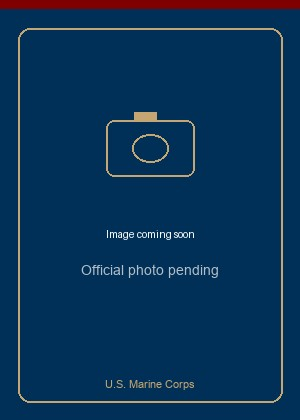
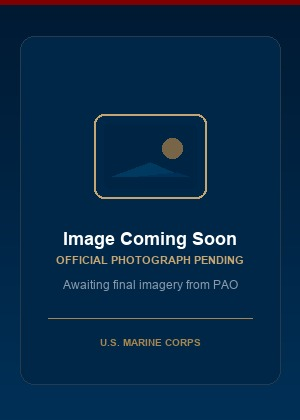
Redesign role photo placeholder with professional navy and gold styling.
Replace the clip-art camera with a refined frame icon, gradient panel, and clearer typography hierarchy for pending PAO photographs.

diff --git a/scripts/build-role-placeholder.py b/scripts/build-role-placeholder.py
@@ -13,15 +13,19 @@ SVG_OUT = OUT_DIR / "image-coming-soon.svg"
 JPG_OUT = OUT_DIR / "image-coming-soon.jpg"
 
 SIZE = (300, 420)
-NAVY = (0, 48, 87)  # #003057
-MAROON = (128, 0, 0)  # #800000
-GOLD = (197, 165, 114)  # #c5a572
-MUTED = (180, 190, 200)
+NAVY = (0, 48, 87)
+NAVY_DARK = (0, 26, 51)
+MAROON = (128, 0, 0)
+GOLD = (197, 165, 114)
+GOLD_DARK = (168, 134, 79)
+WHITE = (255, 255, 255)
+MUTED = (138, 154, 171)
+PANEL = (255, 255, 255, 18)  # used conceptually; raster uses blend
 
 
 def _load_font(size: int, bold: bool = False) -> ImageFont.FreeTypeFont | ImageFont.ImageFont:
     candidates = (
-        "/System/Library/Fonts/Supplemental Arial Bold.ttf" if bold else "/System/Library/Fonts/Supplemental/Arial.ttf",
+        "/System/Library/Fonts/Supplemental/Arial Bold.ttf" if bold else "/System/Library/Fonts/Supplemental/Arial.ttf",
         "/System/Library/Fonts/Supplemental/Helvetica.ttc",
         "/Library/Fonts/Arial.ttf",
     )
@@ -32,58 +36,113 @@ def _load_font(size: int, bold: bool = False) -> ImageFont.FreeTypeFont | ImageF
     return ImageFont.load_default()
 
 
+def _draw_vertical_gradient(img: Image.Image, top: tuple[int, int, int], bottom: tuple[int, int, int]) -> None:
+    base = Image.new("RGB", (1, SIZE[1]))
+    pixels = base.load()
+    for y in range(SIZE[1]):
+        t = y / (SIZE[1] - 1)
+        pixels[0, y] = tuple(int(top[i] + (bottom[i] - top[i]) * t) for i in range(3))
+    gradient = base.resize(SIZE)
+    img.paste(gradient, (0, 0))
+
+
+def _draw_landscape_icon(draw: ImageDraw.ImageDraw, cx: int, cy: int) -> None:
+    """Minimal photo-frame icon with landscape silhouette."""
+    w, h = 112, 84
+    x0, y0 = cx - w // 2, cy - h // 2
+    x1, y1 = x0 + w, y0 + h
+    draw.rounded_rectangle((x0, y0, x1, y1), radius=10, outline=GOLD, width=2)
+
+    inner = (x0 + 10, y0 + 10, x1 - 10, y1 - 10)
+    draw.rounded_rectangle(inner, radius=4, fill=(0, 36, 68))
+
+    ix0, iy0, ix1, iy1 = inner
+    draw.ellipse((ix1 - 34, iy0 + 14, ix1 - 14, iy0 + 34), fill=(120, 100, 70))
+    draw.polygon([(ix0 + 8, iy1 - 12), (ix0 + 46, iy0 + 38), (ix0 + 78, iy1 - 12)], fill=(0, 58, 96))
+    draw.polygon([(ix0 + 34, iy1 - 12), (ix0 + 72, iy0 + 48), (ix1 - 8, iy1 - 12)], fill=(0, 48, 87))
+
+
 def build_raster() -> Image.Image:
     img = Image.new("RGB", SIZE, NAVY)
+    _draw_vertical_gradient(img, NAVY_DARK, NAVY)
     draw = ImageDraw.Draw(img)
 
-    # Top maroon accent bar (matches staff-profile card)
-    draw.rectangle((0, 0, SIZE[0], 8), fill=MAROON)
+    # Top accent — matches staff-profile card
+    draw.rectangle((0, 0, SIZE[0], 4), fill=MAROON)
 
-    # Gold frame
-    inset = 18
-    draw.rounded_rectangle(
-        (inset, 28, SIZE[0] - inset, SIZE[1] - inset),
-        radius=12,
-        outline=GOLD,
-        width=2,
-    )
+    # Subtle inner panel
+    draw.rounded_rectangle((20, 36, SIZE[0] - 20, SIZE[1] - 36), radius=14, fill=(0, 38, 72), outline=(40, 58, 78))
 
-    # Simple camera / photo icon
-    cx, cy = SIZE[0] // 2, 148
-    draw.rounded_rectangle((cx - 44, cy - 28, cx + 44, cy + 28), radius=8, outline=GOLD, width=2)
-    draw.ellipse((cx - 18, cy - 14, cx + 18, cy + 14), outline=GOLD, width=2)
-    draw.rectangle((cx - 16, cy - 36, cx + 6, cy - 28), fill=GOLD)
+    # Gold rules
+    draw.line((48, 318, SIZE[0] - 48, 318), fill=GOLD_DARK, width=1)
 
-    title_font = _load_font(22, bold=True)
-    sub_font = _load_font(14)
-    small_font = _load_font(11)
+    _draw_landscape_icon(draw, SIZE[0] // 2, 156)
 
-    title = "Image coming soon"
-    sub = "Official photo pending"
+    title_font = _load_font(18, bold=True)
+    caps_font = _load_font(11, bold=True)
+    sub_font = _load_font(12)
+    footer_font = _load_font(10, bold=True)
+
+    title = "Image Coming Soon"
+    caps = "OFFICIAL PHOTOGRAPH PENDING"
+    footer = "U.S. MARINE CORPS"
 
     tw = draw.textlength(title, font=title_font)
-    sw = draw.textlength(sub, font=sub_font)
-    draw.text(((SIZE[0] - tw) / 2, 228), title, fill=(255, 255, 255), font=title_font)
-    draw.text(((SIZE[0] - sw) / 2, 262), sub, fill=MUTED, font=sub_font)
+    cw = draw.textlength(caps, font=caps_font)
+    fw = draw.textlength(footer, font=footer_font)
 
-    note = "U.S. Marine Corps"
-    nw = draw.textlength(note, font=small_font)
-    draw.text(((SIZE[0] - nw) / 2, SIZE[1] - 42), note, fill=GOLD, font=small_font)
+    draw.text(((SIZE[0] - tw) / 2, 228), title, fill=WHITE, font=title_font)
+    draw.text(((SIZE[0] - cw) / 2, 254), caps, fill=GOLD, font=caps_font)
+    sub = "Awaiting final imagery from PAO"
+    sw = draw.textlength(sub, font=sub_font)
+    draw.text(((SIZE[0] - sw) / 2, 278), sub, fill=MUTED, font=sub_font)
+    draw.text(((SIZE[0] - fw) / 2, 336), footer, fill=GOLD_DARK, font=footer_font)
 
     return img
 
 
 def build_svg() -> str:
     return """<svg xmlns="http://www.w3.org/2000/svg" viewBox="0 0 300 420" role="img" aria-label="Image coming soon">
-  <rect width="300" height="420" fill="#003057"/>
-  <rect width="300" height="8" fill="#800000"/>
-  <rect x="18" y="28" width="264" height="374" rx="12" fill="none" stroke="#c5a572" stroke-width="2"/>
-  <rect x="118" y="120" width="64" height="48" rx="8" fill="none" stroke="#c5a572" stroke-width="2"/>
-  <circle cx="150" cy="144" r="18" fill="none" stroke="#c5a572" stroke-width="2"/>
-  <rect x="134" y="108" width="22" height="8" fill="#c5a572"/>
-  <text x="150" y="240" text-anchor="middle" fill="#ffffff" font-family="Arial, Helvetica, sans-serif" font-size="22" font-weight="700">Image coming soon</text>
-  <text x="150" y="268" text-anchor="middle" fill="#b4bec8" font-family="Arial, Helvetica, sans-serif" font-size="14">Official photo pending</text>
-  <text x="150" y="390" text-anchor="middle" fill="#c5a572" font-family="Arial, Helvetica, sans-serif" font-size="11">U.S. Marine Corps</text>
+  <defs>
+    <linearGradient id="bg" x1="150" y1="0" x2="150" y2="420" gradientUnits="userSpaceOnUse">
+      <stop offset="0%" stop-color="#001a33"/>
+      <stop offset="100%" stop-color="#003057"/>
+    </linearGradient>
+    <linearGradient id="panel" x1="150" y1="36" x2="150" y2="384" gradientUnits="userSpaceOnUse">
+      <stop offset="0%" stop-color="#002640"/>
+      <stop offset="100%" stop-color="#002a4a"/>
+    </linearGradient>
+    <linearGradient id="hill-back" x1="0" y1="0" x2="0" y2="1">
+      <stop offset="0%" stop-color="#003a60"/>
+      <stop offset="100%" stop-color="#003057"/>
+    </linearGradient>
+    <linearGradient id="hill-front" x1="0" y1="0" x2="0" y2="1">
+      <stop offset="0%" stop-color="#004875"/>
+      <stop offset="100%" stop-color="#003057"/>
+    </linearGradient>
+  </defs>
+
+  <rect width="300" height="420" fill="url(#bg)"/>
+  <rect width="300" height="4" fill="#800000"/>
+
+  <rect x="20" y="36" width="260" height="348" rx="14" fill="url(#panel)" stroke="rgba(255,255,255,0.08)" stroke-width="1"/>
+
+  <!-- Photo frame icon -->
+  <g transform="translate(150 156)">
+    <rect x="-56" y="-42" width="112" height="84" rx="10" fill="none" stroke="#c5a572" stroke-width="1.75"/>
+    <rect x="-48" y="-34" width="96" height="68" rx="6" fill="#002444"/>
+    <circle cx="28" cy="-16" r="10" fill="#c5a572" opacity="0.35"/>
+    <path d="M-38 22 L-8 -18 L22 22 Z" fill="url(#hill-back)"/>
+    <path d="M-14 22 L24 -8 L48 22 Z" fill="url(#hill-front)"/>
+  </g>
+
+  <!-- Typography -->
+  <text x="150" y="232" text-anchor="middle" fill="#ffffff" font-family="Segoe UI, Helvetica Neue, Arial, sans-serif" font-size="18" font-weight="600" letter-spacing="0.02em">Image Coming Soon</text>
+  <text x="150" y="258" text-anchor="middle" fill="#c5a572" font-family="Segoe UI, Helvetica Neue, Arial, sans-serif" font-size="10.5" font-weight="700" letter-spacing="0.14em">OFFICIAL PHOTOGRAPH PENDING</text>
+  <text x="150" y="282" text-anchor="middle" fill="#8a9aab" font-family="Segoe UI, Helvetica Neue, Arial, sans-serif" font-size="11.5" font-weight="400">Awaiting final imagery from PAO</text>
+
+  <line x1="52" y1="312" x2="248" y2="312" stroke="#a8864f" stroke-width="1" opacity="0.65"/>
+  <text x="150" y="334" text-anchor="middle" fill="#a8864f" font-family="Segoe UI, Helvetica Neue, Arial, sans-serif" font-size="9.5" font-weight="700" letter-spacing="0.16em">U.S. MARINE CORPS</text>
 </svg>
 """
 
@@ -91,7 +150,7 @@ def build_svg() -> str:
 def main() -> int:
     OUT_DIR.mkdir(parents=True, exist_ok=True)
     SVG_OUT.write_text(build_svg(), encoding="utf-8")
-    build_raster().save(JPG_OUT, "JPEG", quality=90, optimize=True)
+    build_raster().save(JPG_OUT, "JPEG", quality=92, optimize=True)
     print(f"Wrote {SVG_OUT.relative_to(ROOT)}")
     print(f"Wrote {JPG_OUT.relative_to(ROOT)}")
     return 0
